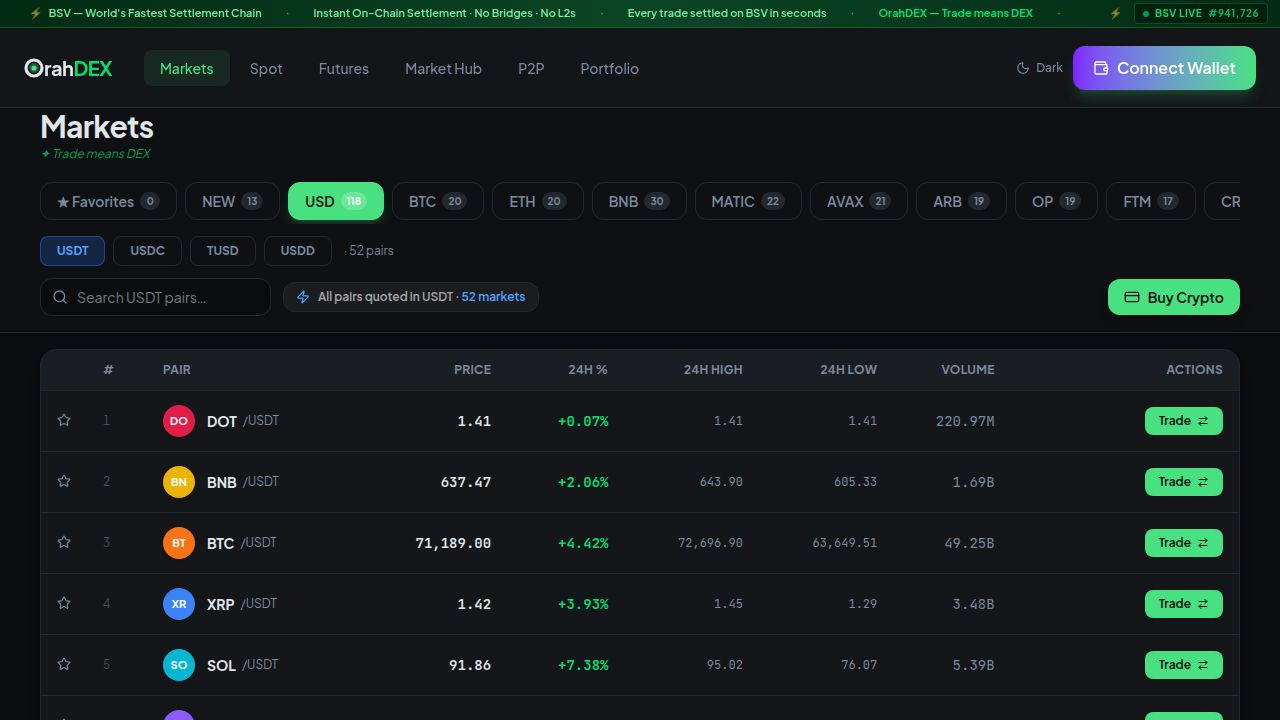
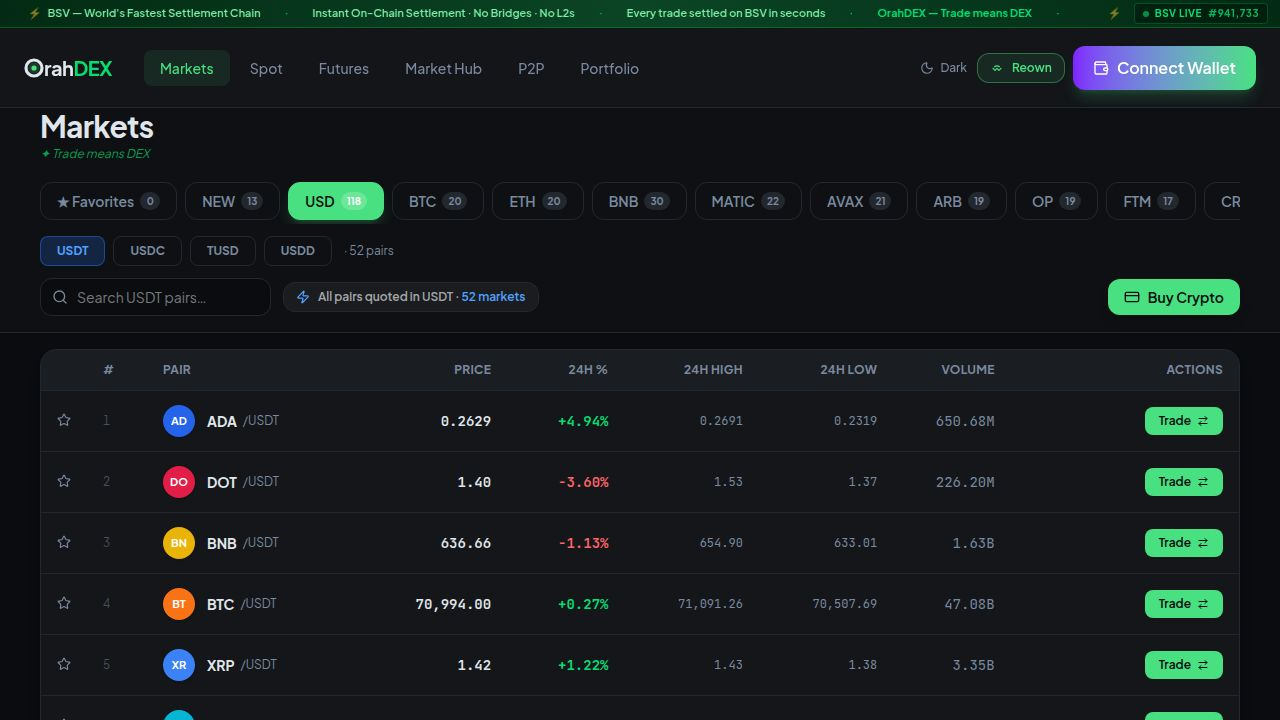
Add stop-limit order type and fee information to the trading interface
Update App.tsx to redirect /spot and /futures routes to default trading pairs. Modify OrderForm.tsx to include a "stop" order type, a "stopPrice" field, and display fee and VIP discount information.

Replit-Commit-Author: Agent
Replit-Commit-Session-Id: 1612e45f-bfa7-465a-9d3d-dd63954a7bc0
Replit-Commit-Checkpoint-Type: full_checkpoint
Replit-Commit-Event-Id: 5390ebfd-4fb7-4900-85b9-9f2edd18d30d
Replit-Commit-Screenshot-Url: https://storage.googleapis.com/screenshot-production-us-central1/748c5e24-ef08-447f-a71b-5e9894ce4896/1612e45f-bfa7-465a-9d3d-dd63954a7bc0/lYc5aVN
Replit-Helium-Checkpoint-Created: true

diff --git a/artifacts/bsv-dex/src/components/trading/OrderForm.tsx b/artifacts/bsv-dex/src/components/trading/OrderForm.tsx
@@ -10,7 +10,7 @@ import {
 } from "lucide-react";
 
 type Side = "buy" | "sell";
-type OrderType = "limit" | "market";
+type OrderType = "limit" | "market" | "stop";
 
 // ── Wallet prompt shown when no wallet is connected ───────────────────────────
 function WalletPrompt() {
@@ -123,10 +123,11 @@ export function OrderForm({ symbol, currentPrice = 0 }: { symbol: string; curren
   const nativeSymbol = network === "bsv" ? "BSV" : network === "sol" ? "SOL" : network === "btc" ? "BTC" : "ETH";
   const nativeBal = balance ? parseFloat(balance) : 0;
 
-  const [side, setSide]   = useState<Side>("buy");
-  const [type, setType]   = useState<OrderType>("limit");
-  const [price, setPrice] = useState<string>(currentPrice > 0 ? currentPrice.toFixed(2) : "");
-  const [amount, setAmount] = useState<string>("");
+  const [side, setSide]       = useState<Side>("buy");
+  const [type, setType]       = useState<OrderType>("limit");
+  const [price, setPrice]     = useState<string>(currentPrice > 0 ? currentPrice.toFixed(2) : "");
+  const [stopPrice, setStopPrice] = useState<string>("");
+  const [amount, setAmount]   = useState<string>("");
 
   const [signing, setSigning] = useState(false);
   const [settlement, setSettlement] = useState<{
@@ -171,7 +172,7 @@ export function OrderForm({ symbol, currentPrice = 0 }: { symbol: string; curren
    * For BSV wallets, no signing step is needed (BSV tx is built server-side).
    */
   const buildOrderMessage = () =>
-    `OrahDEX Order\nPair: ${symbol}\nSide: ${side.toUpperCase()}\nType: ${type.toUpperCase()}\nAmount: ${amount} ${base}${type === "limit" ? `\nPrice: $${price}` : ""}\nWallet: ${address}\nTimestamp: ${Date.now()}`;
+    `OrahDEX Order\nPair: ${symbol}\nSide: ${side.toUpperCase()}\nType: ${type.toUpperCase()}\nAmount: ${amount} ${base}${type !== "market" ? `\nPrice: $${price}` : ""}${type === "stop" ? `\nTrigger: $${stopPrice}` : ""}\nWallet: ${address}\nTimestamp: ${Date.now()}`;
 
   const handleSubmit = async (e: React.FormEvent) => {
     e.preventDefault();
@@ -205,8 +206,9 @@ export function OrderForm({ symbol, currentPrice = 0 }: { symbol: string; curren
         symbol,
         walletAddress: address,
         side,
-        type,
-        price:          type === "limit" ? parseFloat(price) : undefined,
+        type:           type === "stop" ? "limit" : type,
+        price:          type !== "market" ? parseFloat(price) : undefined,
+        stopPrice:      type === "stop" ? parseFloat(stopPrice) : undefined,
         quantity:       parseFloat(amount),
         evmSignature,
         networkType:    isEvm ? "evm" : "bsv",
@@ -217,7 +219,9 @@ export function OrderForm({ symbol, currentPrice = 0 }: { symbol: string; curren
   if (!address) return <WalletPrompt />;
 
   const isPending = placeOrder.isPending || signing;
-  const canSubmit = !isPending && !!amount && parseFloat(amount) > 0 && (type === "market" || (price && parseFloat(price) > 0));
+  const priceValid = type === "market" || (!!price && parseFloat(price) > 0);
+  const stopValid  = type !== "stop" || (!!stopPrice && parseFloat(stopPrice) > 0);
+  const canSubmit  = !isPending && !!amount && parseFloat(amount) > 0 && priceValid && stopValid;
 
   return (
     <div className="flex flex-col h-full bg-card border-l border-border">
@@ -266,17 +270,26 @@ export function OrderForm({ symbol, currentPrice = 0 }: { symbol: string; curren
         </div>
 
         {/* Order type */}
-        <div className="flex gap-2 text-xs font-medium bg-secondary p-1 rounded-lg">
-          {(["limit", "market"] as OrderType[]).map((t) => (
+        <div className="flex gap-1 text-xs font-medium bg-secondary p-1 rounded-lg">
+          {(["limit", "market", "stop"] as OrderType[]).map((t) => (
             <button key={t}
               className={cn("flex-1 py-1.5 rounded-md transition-colors capitalize",
                 type === t ? "bg-card text-foreground shadow-sm" : "text-muted-foreground hover:text-foreground")}
               onClick={() => setType(t)}
             >
-              {t}
+              {t === "stop" ? "Stop" : t}
             </button>
           ))}
         </div>
+
+        {/* Stop order info */}
+        {type === "stop" && (
+          <div className="flex items-start gap-2 p-2.5 rounded-lg bg-amber-500/10 border border-amber-500/20">
+            <span className="text-amber-400 text-[10px] leading-relaxed">
+              <strong>Stop-Limit:</strong> When the market hits your <em>Trigger</em> price, a limit order is placed at your <em>Price</em>.
+            </span>
+          </div>
+        )}
 
         <form onSubmit={handleSubmit} className="flex flex-col gap-4">
           {/* Available */}
@@ -289,10 +302,27 @@ export function OrderForm({ symbol, currentPrice = 0 }: { symbol: string; curren
             </span>
           </div>
 
+          {/* Trigger price for stop orders */}
+          {type === "stop" && (
+            <div className="group flex items-center bg-secondary border border-amber-500/40 rounded-xl px-3 py-2.5 focus-within:border-amber-400/70 focus-within:ring-1 focus-within:ring-amber-400/20 transition-all">
+              <span className="text-amber-400 text-sm w-16 shrink-0">Trigger</span>
+              <input
+                type="number"
+                value={stopPrice}
+                onChange={(e) => setStopPrice(e.target.value)}
+                className="flex-1 bg-transparent text-right text-foreground font-mono focus:outline-none"
+                placeholder="0.00"
+                min="0"
+                step="any"
+              />
+              <span className="text-muted-foreground text-sm ml-2">USDT</span>
+            </div>
+          )}
+
           {/* Price */}
-          {type === "limit" ? (
+          {type === "limit" || type === "stop" ? (
             <div className="group flex items-center bg-secondary border border-border rounded-xl px-3 py-2.5 focus-within:border-primary/50 focus-within:ring-1 focus-within:ring-primary/20 transition-all">
-              <span className="text-muted-foreground text-sm w-16">Price</span>
+              <span className="text-muted-foreground text-sm w-16">{type === "stop" ? "Limit" : "Price"}</span>
               <input
                 type="number"
                 value={price}
@@ -384,8 +414,16 @@ export function OrderForm({ symbol, currentPrice = 0 }: { symbol: string; curren
             )}
           </button>
 
+          {/* Fee info & VIP discount */}
+          <div className="flex items-center justify-between px-1 text-[10px] text-muted-foreground">
+            <span>Fee: <span className="text-foreground font-mono">0.10%</span> maker / <span className="text-foreground font-mono">0.10%</span> taker</span>
+            <span className="text-primary font-medium cursor-pointer hover:underline" title="Pay fees in ORAH token for up to 25% discount. VIP tiers unlock lower rates.">
+              VIP discounts ↗
+            </span>
+          </div>
+
           {/* How it works */}
-          <div className="mt-1 p-3 rounded-xl bg-secondary/40 border border-border/50">
+          <div className="p-3 rounded-xl bg-secondary/40 border border-border/50">
             <p className="text-[10px] text-muted-foreground leading-relaxed">
               {isEvm
                 ? "Your EVM wallet signs the order intent (no gas). When matched, the trade settles permanently on the BSV blockchain via OP_RETURN."

diff --git a/artifacts/bsv-dex/src/App.tsx b/artifacts/bsv-dex/src/App.tsx
@@ -65,6 +65,12 @@ function RequireAdminAuth({ children }: { children: ReactNode }) {
   return <>{children}</>;
 }
 
+function RedirectTo({ href }: { href: string }) {
+  const [, navigate] = useLocation();
+  useEffect(() => { navigate(href, { replace: true }); }, []);
+  return null;
+}
+
 function Router() {
   const isMobile = useIsMobile();
 
@@ -226,6 +232,10 @@ function Router() {
           <AdminLayout><AdminAnnouncements /></AdminLayout>
         </RequireAdminAuth>
       </Route>
+
+      {/* Bare /spot and /futures → redirect to default pairs */}
+      <Route path="/spot"><RedirectTo href="/trade/BSV-USDT" /></Route>
+      <Route path="/futures"><RedirectTo href="/futures/BSV-USDT-PERP" /></Route>
 
       {/* Mobile layout — rendered when on a phone/small screen */}
       {isMobile && (